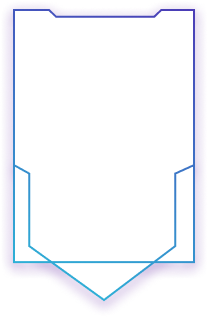
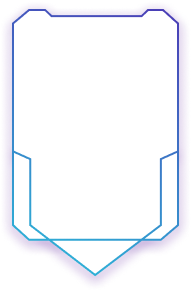
refactor: styles

diff --git a/src/ui/Field.tsx b/src/ui/Field.tsx
@@ -2,6 +2,7 @@ import { useDroppable } from "@dnd-kit/core";
 import { FC } from "react";
 import { Card } from "./index.ts";
 import { IPlayerCard } from "../interfaces/Game.ts";
+import { field } from "../assets/index.ts";
 
 interface IFieldProps {
   id: string;
@@ -16,9 +17,11 @@ const Field: FC<IFieldProps> = ({ id, card }) => {
       ? "border-red-300"
       : "border-green-300"
     : "border-grey-300";
+
   return (
     <div
-      className={`w-44 h-full bg-cover bg-no-repeat flex items-center justify-center border ${bgStyle} `}
+      style={{ backgroundImage: `url(${field})` }}
+      className={`h-[165px] w-[120px] bg-center bg-contain bg-no-repeat ${bgStyle}`}
       id="field"
       ref={setNodeRef}
     >

diff --git a/src/widgets/Player.tsx b/src/widgets/Player.tsx
@@ -33,12 +33,12 @@ const Player = () => {
   return (
     <DndContext onDragEnd={handleDragEnd}>
       <div className="h-full w-full flex flex-col p-2.5">
-        <div className="flex h-full justify-center">
+        <div className="flex h-full justify-center gap-[30px] items-center">
           {fields.map((field) => (
             <Field id={field.id} key={field.id} card={field.data} />
           ))}
         </div>
-        <div className="w-full h-full border flex gap-2.5 items-center p-2.5">
+        <div className="w-full h-full flex gap-2.5 items-center p-2.5">
           {cardsInHand.map((card) => (
             <DraggableCard key={card.id} {...card} />
           ))}

diff --git a/src/widgets/Enemy.tsx b/src/widgets/Enemy.tsx
@@ -7,12 +7,12 @@ const Enemy = () => {
   console.log(cardsInHand);
   return (
     <div className="h-full w-full flex flex-col p-2.5">
-      <div className="w-full h-full border flex gap-2.5 items-center p-2.5">
+      <div className="w-full h-full flex gap-2.5 items-center p-2.5">
         {cardsInHand.map((card) => (
           <Card key={card.id} {...card} />
         ))}
       </div>
-      <div className="flex justify-center h-full    ">
+      <div className="flex justify-center h-full gap-[30px] items-center">
         {fields.map((field) => (
           <Field id={field.id} key={`enemy_${field.id}`} card={field.data} />
         ))}

diff --git a/src/ui/Card/Card.module.css b/src/ui/Card/Card.module.css
@@ -5,21 +5,19 @@
 } */
 
 .card {
-  --card-height: 232px;
-  --card-width: 170px;
-  width: var(--card-width);
-  height:var(--card-height);
-  padding: 3px;
+  width: 120px;
+  height: 165px;
+  padding: 2px;
   position: relative;
   justify-content: center;
   align-items: center;
   text-align: center;
   display: flex;
-  font-size: 1.5em;
+  font-size: 20px;
   cursor: pointer;
 }
 
-/* .card::before {
+  /* .card::before {
   content: "";
   width: 104%;
   height: 102%;

diff --git a/src/assets/index.ts b/src/assets/index.ts
@@ -6,6 +6,7 @@ import blue_card_back from "../assets/blue_card_back.png";
 import green_card_back from "../assets/green_card_back.png";
 import red_card_back from "../assets/red_card_back.png";
 import yellow_card_back from "../assets/yellow_card_back.png";
+import field from "../assets/field.png";
 
 export {
   piece,
@@ -16,4 +17,5 @@ export {
   green_card_back,
   red_card_back,
   yellow_card_back,
+  field,
 };

diff --git a/src/ui/Card/Card.tsx b/src/ui/Card/Card.tsx
@@ -34,13 +34,7 @@ const Card: FC<IPlayerCard> = ({ id, type, name, ...rest }) => {
   }
 
   return id ? (
-    <div
-      className={clsx(
-        classes.card,
-        typeBg,
-        " bg-opacity-50 border-2  border-purple"
-      )}
-    >
+    <div className={clsx(classes.card, typeBg, " bg-opacity-50 ")}>
       <div className="text-white ">{name}</div>
     </div>
   ) : (

diff --git a/src/pages/Game.tsx b/src/pages/Game.tsx
@@ -44,7 +44,7 @@ const GamePage = () => {
           <Enemy />
 
           <div className="w-full h-10">
-            <img src={divider} />
+            <img src={divider} className="w-full h-full object-contain" />
           </div>
 
           <Player />
